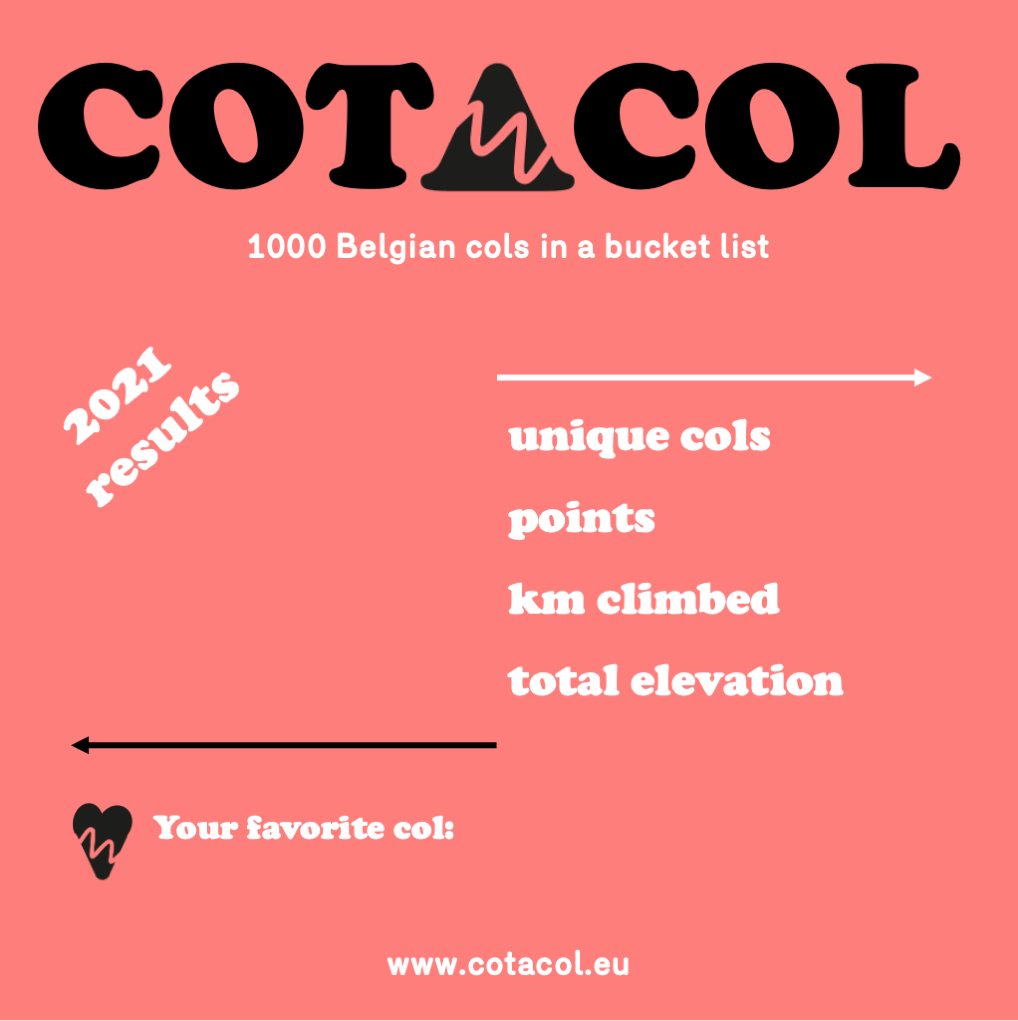
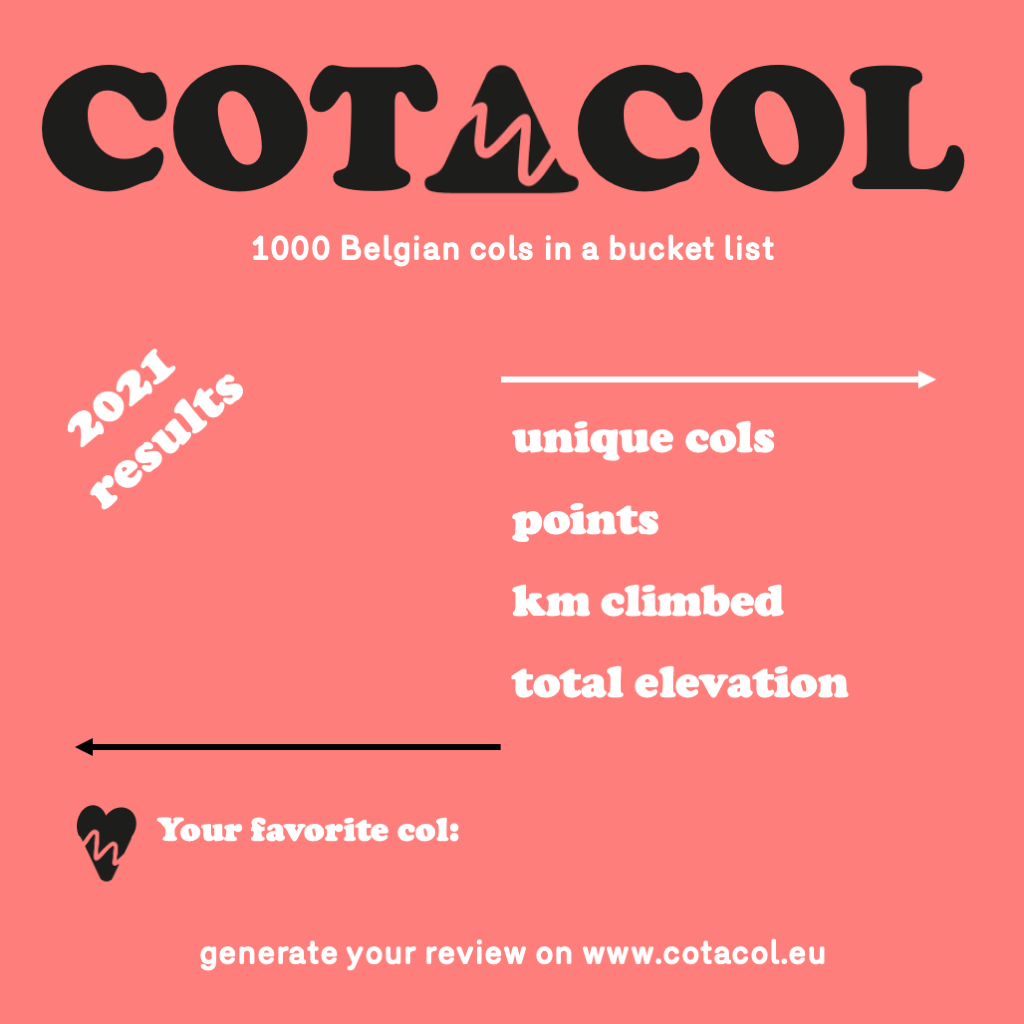
enhance & embed year picture

diff --git a/src/CotacolApp/Services/Imaging/YearImageGenerator.cs b/src/CotacolApp/Services/Imaging/YearImageGenerator.cs
@@ -24,14 +24,20 @@ namespace CotacolApp.Services.Imaging
         {
             var fonts = new PrivateFontCollection();
             fonts.AddFontFile(Path.Combine(_hostingEnvironment.WebRootPath, "fonts/cooper_black_regular.ttf"));
-            var fontFamily = fonts.Families[0];
+            fonts.AddFontFile(Path.Combine(_hostingEnvironment.WebRootPath, "fonts/merkury_bold.otf"));
+            // fonts.AddFontFile(Path.Combine(_hostingEnvironment.WebRootPath, "fonts/lekton-regular.ttf"));
+            //fonts.AddFontFile(Path.Combine(_hostingEnvironment.WebRootPath, "fonts/cooper_light_bt-webfont.ttf"));
+            var boldFont = fonts.Families[0];
+            var lightFont = fonts.Families[1];
 
             var assembly = Assembly.GetAssembly(typeof(YearImageGenerator));
             var resourceName = "CotacolApp.StaticData.year-a.png";
             var rightAlignFormat = new StringFormat {Alignment = StringAlignment.Far};
 
-            var rightBorder = 480f;
-            var startHeight = 390f;
+            var yearValuesRightBorder = 480f;
+            var totalValuesLeftBorder = 520f;
+            var startHeightYear = 390f;
+            var startHeightTotals = 373f;
             var rowHeight = 82f;
             await using (var stream = assembly.GetManifestResourceStream(resourceName))
             {
@@ -39,27 +45,61 @@ namespace CotacolApp.Services.Imaging
                 var bitmap = new Bitmap(stream);
                 using (var gfx = Graphics.FromImage(bitmap))
                 {
-                    using (Font f = new Font(fontFamily, 48, FontStyle.Bold))
+                    if (summary != null)
                     {
-                        gfx.DrawString($"{summary?.UniqueColsInYear.Number()}", f, Brushes.Black,
-                            new RectangleF(0, startHeight, rightBorder, 100f), rightAlignFormat);
-                        gfx.DrawString($"{summary?.PointsInYear.Number()}", f, Brushes.Black,
-                            new RectangleF(0, startHeight + rowHeight, rightBorder, 100f), rightAlignFormat);
-                        gfx.DrawString($"{(summary.DistanceInYear / 1000).Number()}", f, Brushes.Black,
-                            new RectangleF(0, startHeight + rowHeight * 2, rightBorder, 100f), rightAlignFormat);
-                        gfx.DrawString($"{summary?.ElevationInYear.Number()} m", f, Brushes.Black,
-                            new RectangleF(0, startHeight + rowHeight * 3, rightBorder, 100f), rightAlignFormat);
-                    }
+                        using (Font f = new Font(boldFont, 48, FontStyle.Bold))
+                        {
+                            gfx.DrawString($"{summary?.UniqueColsInYear.Number()}", f, Brushes.Black,
+                                new RectangleF(0, startHeightYear, yearValuesRightBorder, 100f), rightAlignFormat);
+                            gfx.DrawString($"{summary?.PointsInYear.Number()}", f, Brushes.Black,
+                                new RectangleF(0, startHeightYear + rowHeight, yearValuesRightBorder, 100f),
+                                rightAlignFormat);
+                            gfx.DrawString($"{(summary.DistanceInYear / 1000).Number()}", f, Brushes.Black,
+                                new RectangleF(0, startHeightYear + rowHeight * 2, yearValuesRightBorder, 100f),
+                                rightAlignFormat);
+                            gfx.DrawString($"{summary?.ElevationInYear.Number()} m", f, Brushes.Black,
+                                new RectangleF(0, startHeightYear + rowHeight * 3, yearValuesRightBorder, 100f),
+                                rightAlignFormat);
+                        }
 
-                    using (Font f = new Font(fontFamily, 29, FontStyle.Bold))
-                    {
-                        gfx.DrawString($"#{summary?.MostPopularCol.CotacolId} {summary?.MostPopularCol.CotacolName}", f,
-                            Brushes.Black, new RectangleF(148, 850, 804, 200f));
-                        gfx.DrawString(
+                        using (Font f = new Font(lightFont, 16, FontStyle.Bold))
+                        {
+                            gfx.DrawString($"{summary?.TotalCols.Number()} cols overall", f, Brushes.Black,
+                                new RectangleF(totalValuesLeftBorder, startHeightTotals + rowHeight,
+                                    yearValuesRightBorder, 100f));
+                            gfx.DrawString($"{summary?.TotalPoints.Number()} points overall", f, Brushes.Black,
+                                new RectangleF(totalValuesLeftBorder, startHeightTotals + rowHeight * 2,
+                                    yearValuesRightBorder, 100f));
+                            gfx.DrawString($"{(summary.TotalLength / 1000).Number()} km cols overall", f, Brushes.Black,
+                                new RectangleF(totalValuesLeftBorder, startHeightTotals + rowHeight * 3,
+                                    yearValuesRightBorder, 100f));
+                            gfx.DrawString($"{summary?.TotalElevation.Number()} m elevation overall", f, Brushes.Black,
+                                new RectangleF(totalValuesLeftBorder, startHeightTotals + rowHeight * 4,
+                                    yearValuesRightBorder, 100f));
+                            gfx.DrawString(summary?.UserName, f,
+                                Brushes.Black, new RectangleF(0, 980, 1000, 100f), rightAlignFormat);
+                        }
+
+                        using (Font f = new Font(boldFont, 29, FontStyle.Bold))
+                        {
+                            gfx.DrawString(
+                                $"#{summary?.MostPopularCol.CotacolId} {summary?.MostPopularCol.CotacolName}", f,
+                                Brushes.Black, new RectangleF(148, 850, 804, 200f));
+                            gfx.DrawString(
                                 $"{summary?.MostPopularColCount} times"
-                            , f, Brushes.White, new RectangleF(460, 801, 804, 200f));
+                                , f, Brushes.White, new RectangleF(462, 804, 804, 200f));
+                        }
+                    }
+                    else
+                    {
+                        using (Font f = new Font(boldFont, 32, FontStyle.Bold))
+                        {
+                            gfx.DrawString("The year review generation went wrong.  Did you conquer Cotacols, this year?", f, Brushes.Black,
+                                new RectangleF(84, 520, yearValuesRightBorder, 350f));
+                        }
                     }
                 }
+
                 using (var imgStream = new MemoryStream())
                 {
                     bitmap.Save(imgStream, System.Drawing.Imaging.ImageFormat.Png);

diff --git a/src/CotacolApp/Controllers/YearImageController.cs b/src/CotacolApp/Controllers/YearImageController.cs
@@ -25,14 +25,29 @@ namespace CotacolApp.Controllers
         [Route("img/year/{userId}")]
         public async Task<IActionResult> Get(string userId)
         {
-            var year = DateTime.UtcNow.Month > 8 ? DateTime.UtcNow.Year : DateTime.UtcNow.Year - 1;
-            var summary = await _userClient.GetYearReviewAsync(userId, year);
+            YearReview summary = null;
+            try
+            {
+                var year = DateTime.UtcNow.Month > 8 ? DateTime.UtcNow.Year : DateTime.UtcNow.Year - 1;
+                summary = await _userClient.GetYearReviewAsync(userId, year);
+            }
+            catch (Exception e)
+            {
+            }
 
-            var imageContent = await _imageGenerator.CreateImageAsync(summary);
-            return File(imageContent, "image/png");
+            try
+            {
+                var imageContent = await _imageGenerator.CreateImageAsync(summary);
+                return File(imageContent, "image/png");
+            }
+            catch (Exception e)
+            {
+                Console.WriteLine(e);
+                throw;
+            }
+
+            return null;
+
         }
-
-
-
     }
 }

diff --git a/src/CotacolApp/Models/CotacolApi/YearReview.cs b/src/CotacolApp/Models/CotacolApi/YearReview.cs
@@ -5,6 +5,7 @@ namespace CotacolApp.Models.CotacolApi
 {
     public class YearReview
     {
+        public string UserName { get; set; }
         public int MostPopularColCount { get; set; }
         public int UniqueColsInYear { get; set; }
         public int PointsInYear { get; set; }
